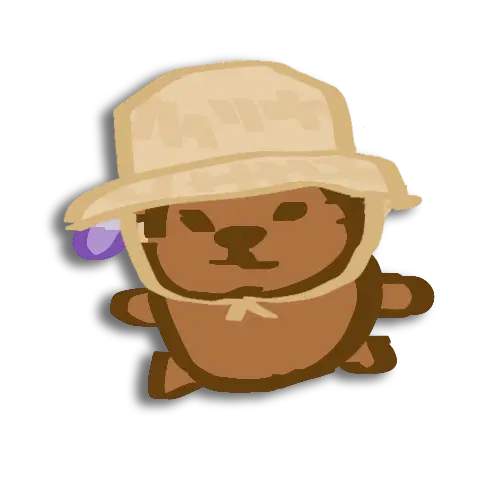
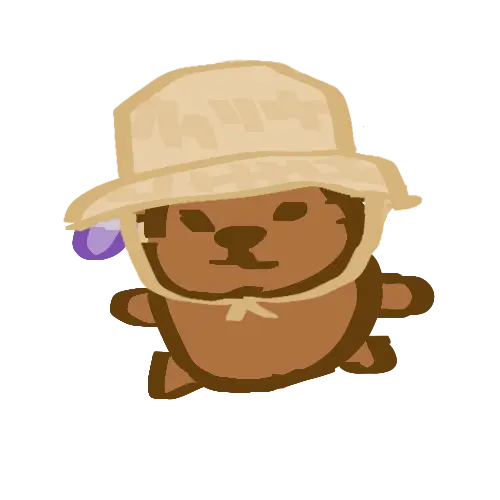
Add CSS dropshadow to sticker components

diff --git a/src/elements/Merch.tsx b/src/elements/Merch.tsx
@@ -1,7 +1,8 @@
 import { JUKEBOX_URL } from "../global/APIHelpers";
 import Line from "./Line";
+import Plack from "./Plack";
 import DesertCab from "/images/DesertCab.webp";
-import MustacheCab from "/images/MustacheCab.webp";
+import MoustacheCab from "/images/MoustacheCab.webp";
 import Myomnyom from "/images/Myomnyom.webp";
 import TheVoracity from "/images/TheVoracity.webp";
 
@@ -12,7 +13,39 @@ export default function Merch() {
 
     return (
         <section className="merch">
-            <div className="background" />
+            <div className="background">
+                <div className="grid" />
+                <img
+                    className="sticker"
+                    src={Myomnyom}
+                    style={{
+                        top: "-10%",
+                        left: "-5%",
+                        transform:
+                            "rotateZ(20deg)",
+                    }}
+                />
+                <img
+                    className="sticker"
+                    src={DesertCab}
+                    style={{
+                        top: "25%",
+                        right: "-10%",
+                        transform:
+                            "rotateZ(-20deg)",
+                    }}
+                />
+                <img
+                    className="sticker"
+                    src={TheVoracity}
+                    style={{
+                        bottom: "-25%",
+                        left: "-10%",
+                        transform:
+                            "rotateZ(-20deg)",
+                    }}
+                />
+            </div>
             <div className="content">
                 <div className="info">
                     <h2>FREE STICKERS</h2>
@@ -33,27 +66,30 @@ export default function Merch() {
                         className="sticker"
                         src={DesertCab}
                         style={{
-                            top: "5%",
-                            left: "25%",
-                            transform: "translateX(-25%) translateY(-5%)",
-                        }}
-                    />
-                    <img
-                        className="sticker"
-                        src={MustacheCab}
-                        style={{
-                            top: "100%",
-                            left: "40%",
-                            transform: "translateX(-40%) translateY(-100%)",
+                            top: "0%",
+                            left: "0%",
+                            transform:
+                                "rotateZ(10deg)",
                         }}
                     />
                     <img
                         className="sticker"
                         src={TheVoracity}
                         style={{
-                            top: "90%",
-                            left: "90%",
-                            transform: "translateX(-90%) translateY(-70%)",
+                            bottom: "5%",
+                            right: "10%",
+                            transform:
+                                "rotateZ(-5deg)",
+                        }}
+                    />
+                    <img
+                        className="sticker"
+                        src={MoustacheCab}
+                        style={{
+                            bottom: "0%",
+                            right: "40%",
+                            transform:
+                                "rotateZ(5deg)",
                         }}
                     />
                     <img
@@ -61,8 +97,9 @@ export default function Merch() {
                         src={Myomnyom}
                         style={{
                             top: "0%",
-                            left: "70%",
-                            transform: "translateX(-70%) translateY(0%)",
+                            left: "30%",
+                            transform:
+                                "rotateZ(-10deg)",
                         }}
                     />
                 </div>

diff --git a/src/css/Merch.css b/src/css/Merch.css
@@ -18,9 +18,22 @@
         20% calc(100% - (var(--grooves) / 1.2)),
         0% calc(100% - (var(--grooves) / 4))
     );
+    display: flex;
+    justify-content: center;
+    align-items: center;
+    margin-top: var(--ngrooves);
+    margin-bottom: var(--ngrooves);
 }
 
 .merch .background {
+    position: absolute;
+    left: 0;
+    right: 0;
+    top: 0;
+    bottom: 0;
+}
+
+.merch .background .grid {
     --grid-color: #e1cfb9;
     aspect-ratio: 1/1;
     position: absolute;
@@ -28,7 +41,11 @@
     top: 50%;
     width: 150%;
     background-size: 3rem 3rem;
-    background-image: linear-gradient(to right, var(--grid-color) 1px, transparent 1px),
+    background-image: linear-gradient(
+            to right,
+            var(--grid-color) 1px,
+            transparent 1px
+        ),
         linear-gradient(to bottom, var(--grid-color) 1px, transparent 1px);
     transform: rotateZ(-5deg) translateX(-50%) translateY(-50%);
 }
@@ -36,14 +53,12 @@
 .merch .content {
     position: relative;
     padding: calc(var(--spacing) + var(--grooves));
-    gap: var(--spacing);
+    gap: calc(var(--spacing) * 2);
     display: flex;
     flex-direction: row;
     justify-content: center;
     align-items: center;
     flex-wrap: wrap;
-    margin-top: var(--ngrooves);
-    margin-bottom: var(--ngrooves);
     width: 100%;
     height: 100%;
 }
@@ -53,6 +68,9 @@
     flex-direction: column;
     justify-content: flex-start;
     align-items: space-around;
+    padding: var(--spacing);
+    background-color: var(--high-beige-2);
+    filter: drop-shadow(-0.3rem 0.3rem 0.2rem rgba(0, 0, 0, 0.5));
 }
 
 .merch .info .jukebox {
@@ -98,7 +116,13 @@
     min-height: 30vh;
 }
 
-.merch .media .sticker {
+.merch .sticker {
     position: absolute;
     width: 12rem;
+    filter: drop-shadow(-0.3rem 0.3rem 0.2rem rgba(0, 0, 0, 0.5));
+}
+
+.merch .background .sticker {
+    width: 20rem;
+    filter: blur(2px) drop-shadow(-1rem 1rem 0.8rem rgba(0, 0, 0, 0.5));
 }
